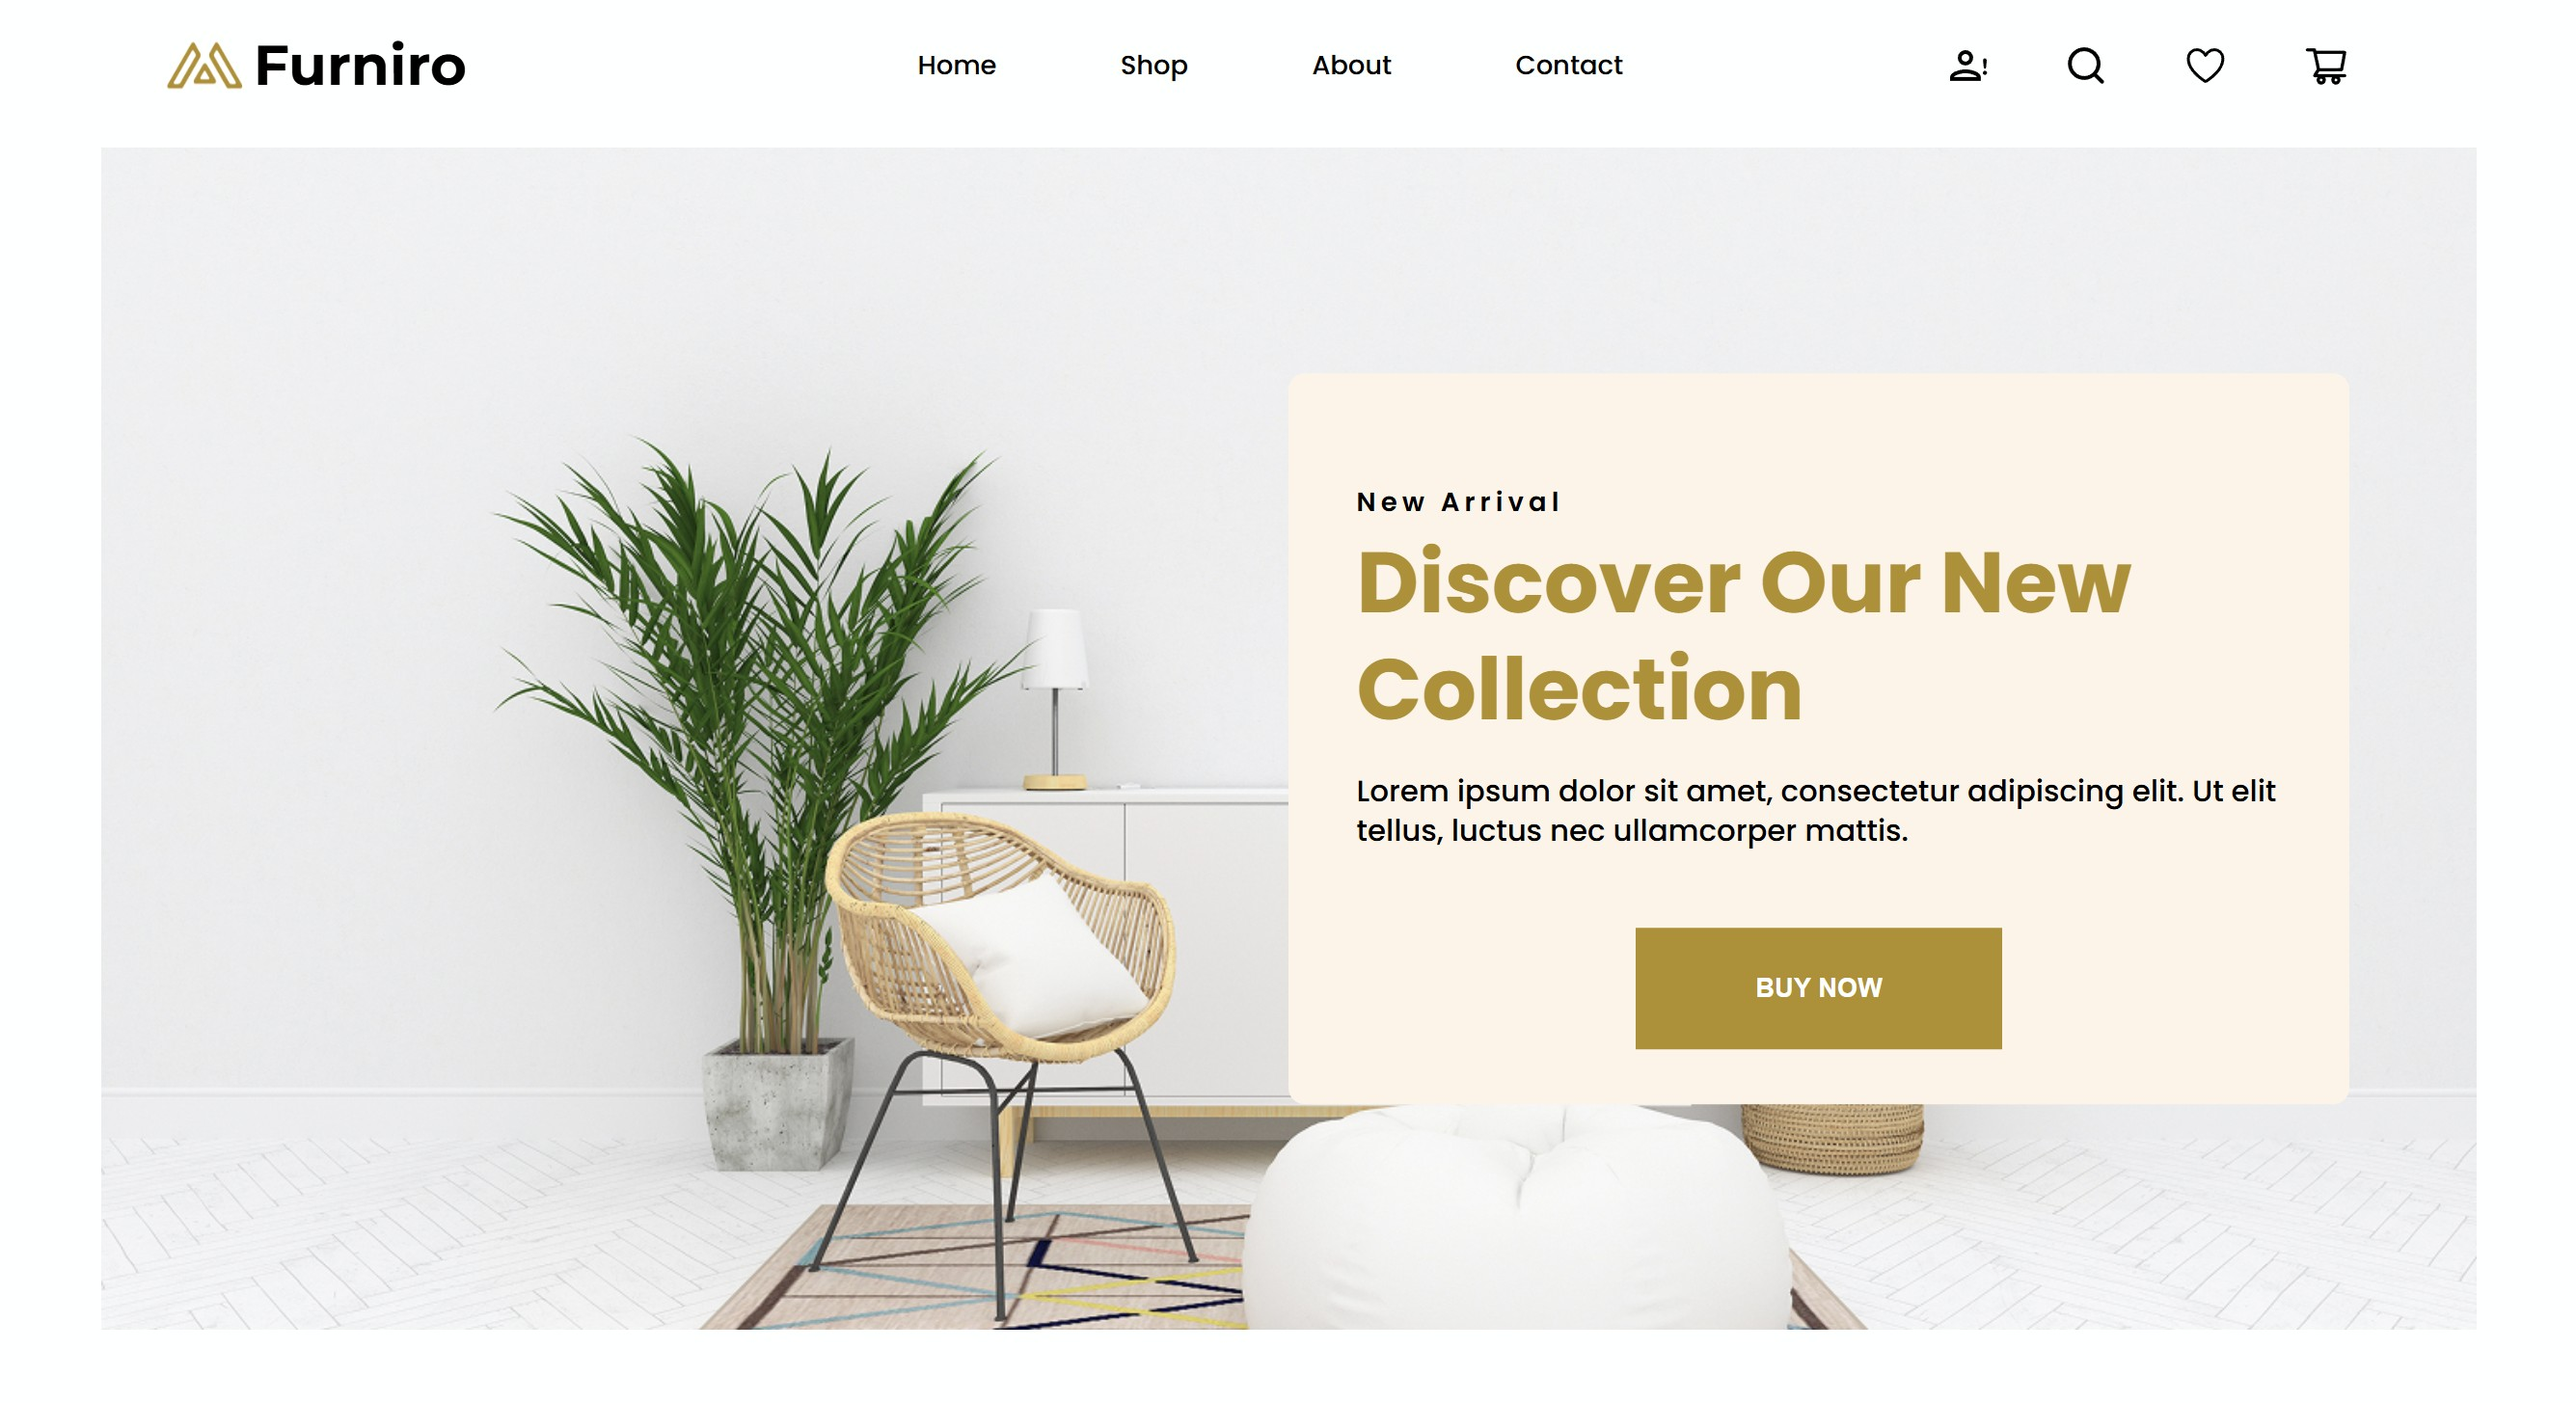
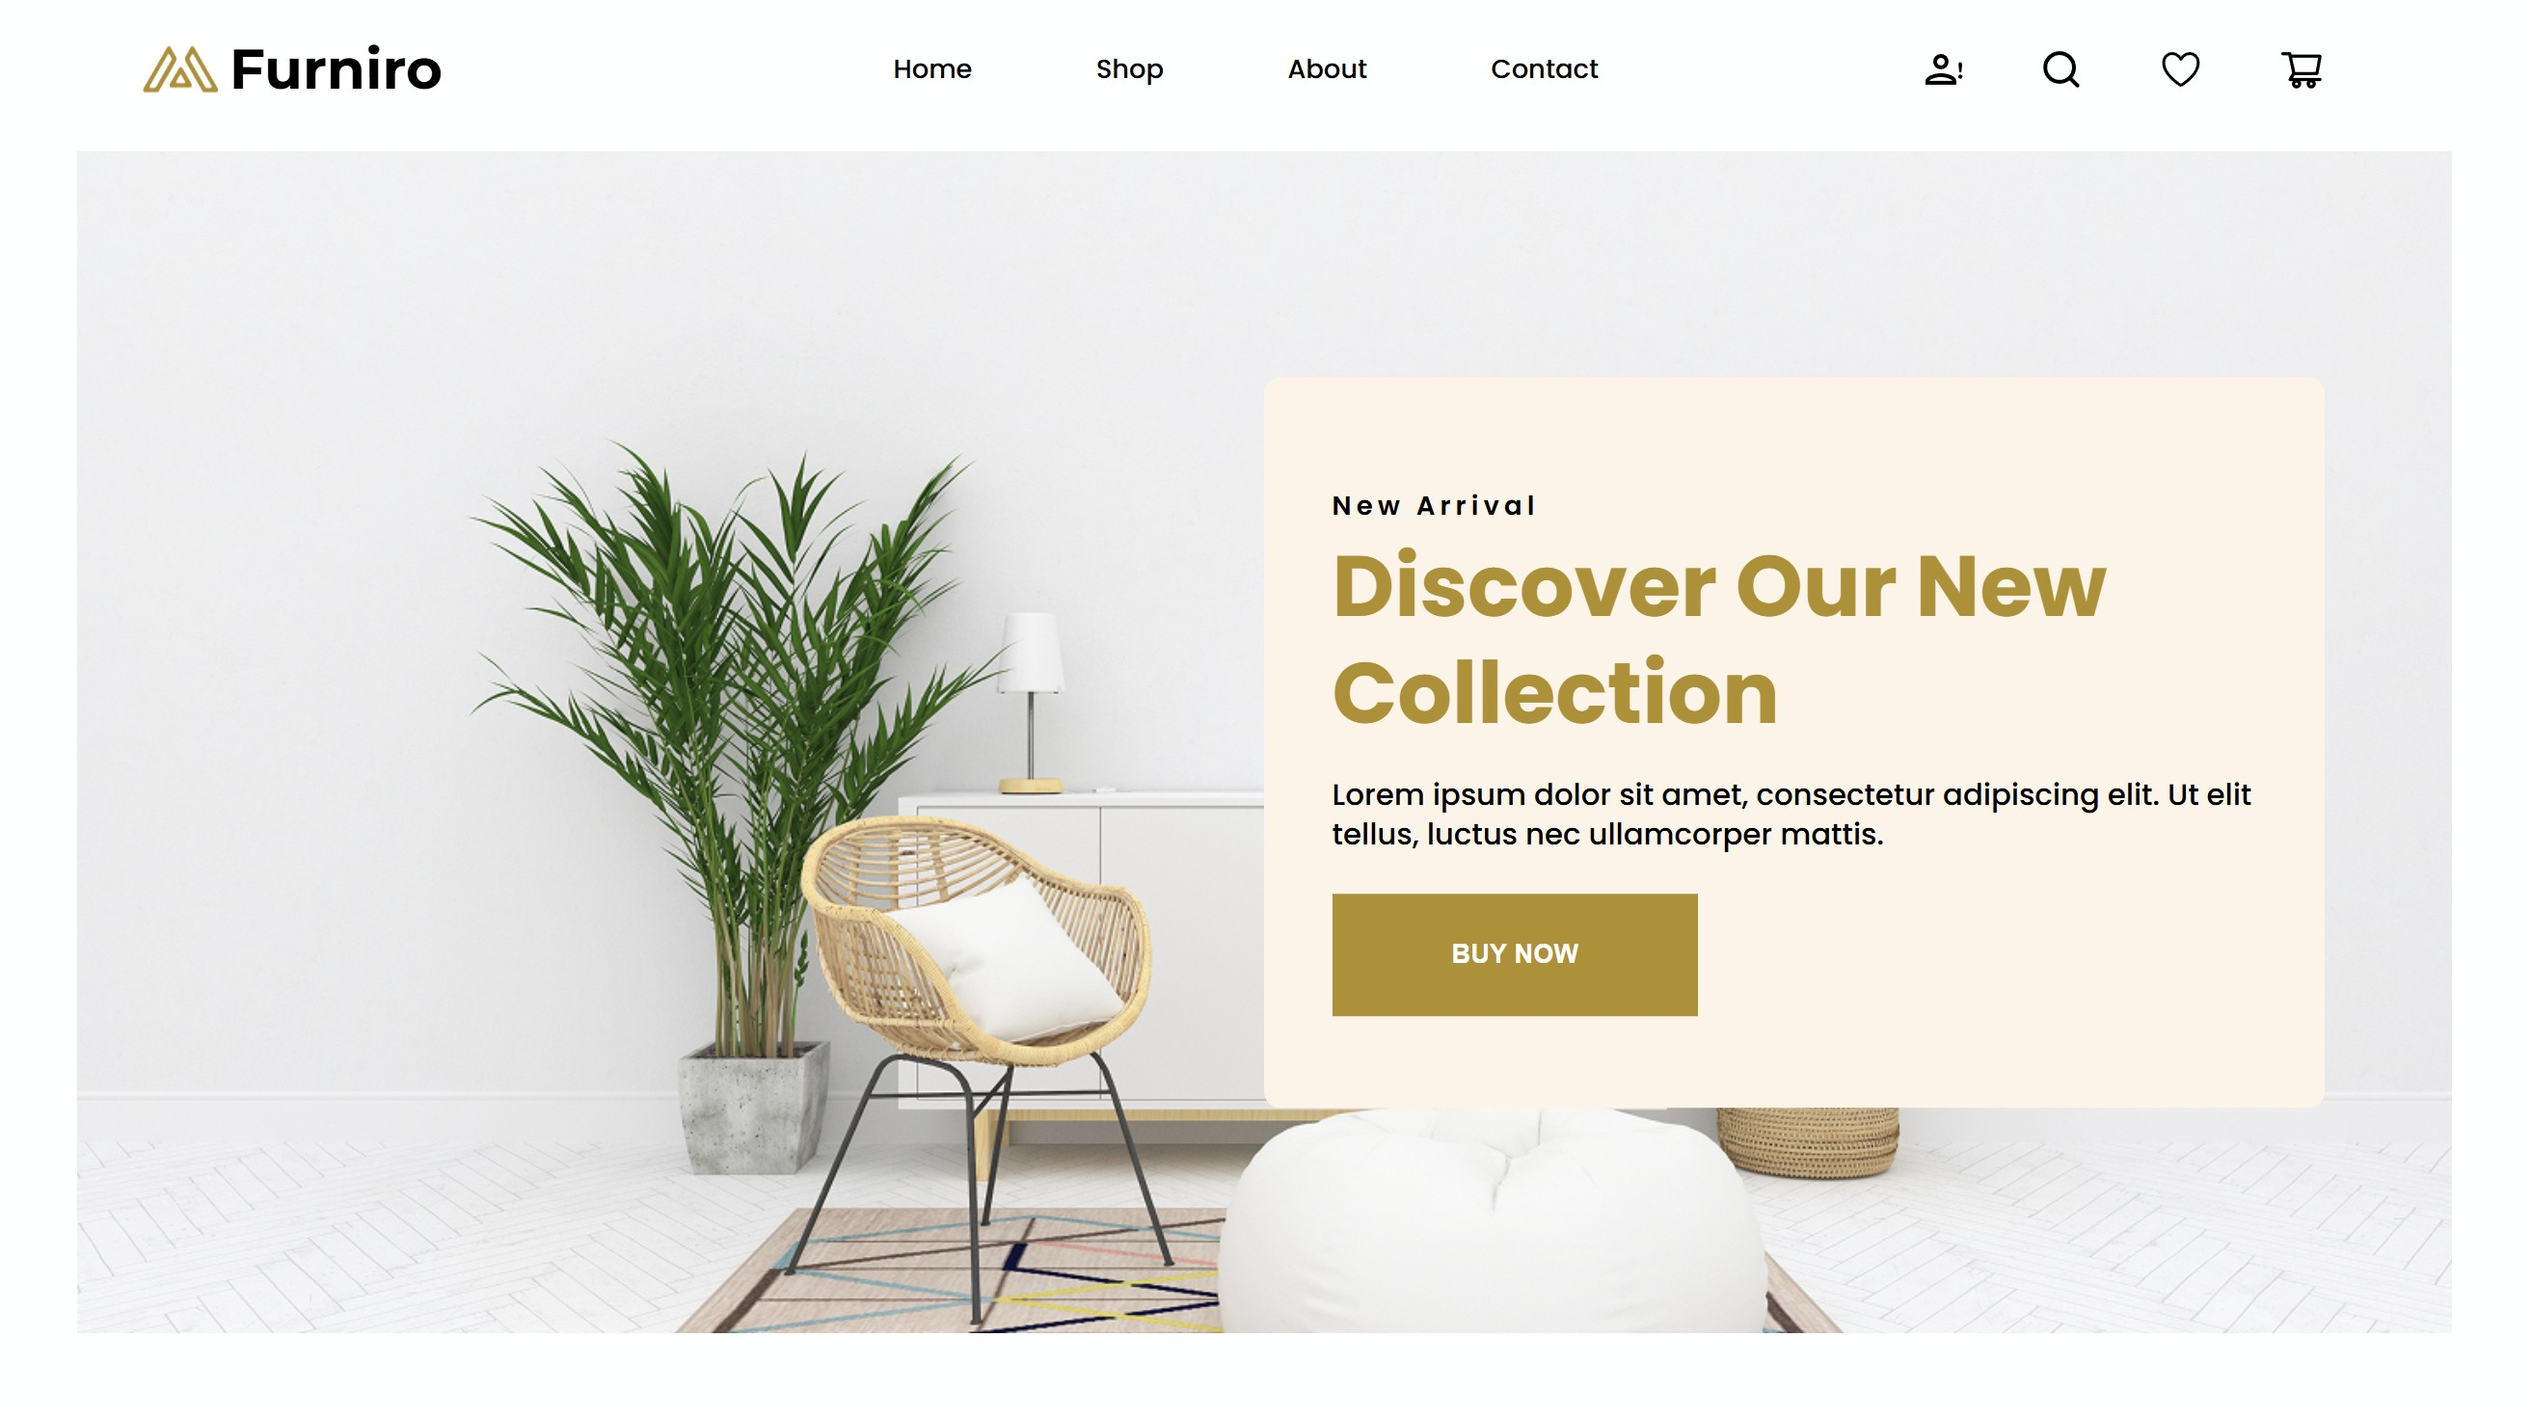
docs: Updated #PR17 details and readme
Readme update includes img replacement and milestone updates, as well as
better spacing between sections.

diff --git a/README.md b/README.md
@@ -7,7 +7,7 @@
 </div>
 
 <br>
-<p align = "center">ℹ Note: Current scope is restricted to the Landing Page. Optimised for small desktops and above.</p>
+<p align = "center">ℹ Note: Current scope is restricted to the Landing Page. Optimised for mobile & desktop.</p>
 
 ------------
 
@@ -45,6 +45,8 @@ npm run dev
 After setting my eyes on this public community figma design, which actually encompassed an entire 8 pages and a sidebar; it made sense to implement a scalable front-end system, with reusable components and design tokens. This would make it easier to create all the pages on this selfsame project.
 </i>
 
+<br/>
+
 # Tech Stack
 
 <p align="left">
@@ -53,6 +55,8 @@ After setting my eyes on this public community figma design, which actually enco
   </a>
     <h4><u>Packages:</u><br/><span style = "font-weight:lighter">classNames, react-router-dom, react-icons</span></h4>
 </p>
+
+<br/>
 
 # Architecture
 
@@ -77,6 +81,7 @@ Folder & file structure: <a href="./docs/readme-assets/hierarchy.md">hierarchy.m
 - <i>Layout.module.css</i> - Where the initial properties of the `grid`, `contentContainer` and `wideContainer` classes are established.
 - <i>Themes.module.css</i> - Where all the design variable tokens for the default theme class reside.
 
+<br/>
 
 # Components
 
@@ -91,12 +96,15 @@ Folder & file structure: <a href="./docs/readme-assets/hierarchy.md">hierarchy.m
 
 </div>
 
+<br/>
 
 # Figma Reference 
 
 <b>Home</b>: <a href="./docs/readme-assets/figma-screenshots/figma-home-full.jpg">Full</a> | <a href="./docs/readme-assets/figma-screenshots/figma-home-layout-grid.jpg">Layout Grid</a> | Close ups: <a href="./docs/readme-assets/figma-screenshots/figma-home-pt1.jpg">Pt1</a> | <a href="./docs/readme-assets/figma-screenshots/figma-home-pt2.jpg">Pt2</a> | <a href="./docs/readme-assets/figma-screenshots/figma-home-pt3.jpg">Pt3</a>
 
 Figma links can also be provided upon request.
+
+<br/>
 
 # Process
 
@@ -109,7 +117,9 @@ Project initialisation to systems implementation: <a href="./docs/readme-assets/
 From the initial skeleton to translating the <i>Home</i> page from figma: <a href="./docs/readme-assets/process-pr9-15.md">#PR9-#PR15</a>
 
 <b>Site responsiveness:</b><br/>
-Making the site responsive for all desktop sizes: <a href="./docs/readme-assets/process-pr16.md">#PR16</a>
+Making the site responsive for all desktop & mobile sizes: <a href="./docs/readme-assets/process-pr16-17.md">#PR16-#PR17</a>
+
+<br/>
 
 # Milestones
 
@@ -121,17 +131,22 @@ Making the site responsive for all desktop sizes: <a href="./docs/readme-assets/
 - All Home sections visually styled for the original 1440px Figma design, using media queries where appropriate
 - Carousel & ProductCard components that dynamically populate based on the accompanying data file
 
-<h3><b>MS1</b> - In Progress</h3>
+<h3><b>MS1</b> - Completed: 2026/05/29</h3>
 
 - [x] Better responsiveness on smaller desktop widths: Using appropriate breakpoints, including adjusting grid spans and pushing other flexed content where necessary
-- [ ] Add responsiveness for all mobile devices
-- [ ] Add placeholder 'coming soon' sections for linking pages that are yet to be implemented
-- [ ] Add the alternative ProductCard view when clicking on the card
+- [x] Add responsiveness for all mobile devices
 
+<br/>
 
 # Future Milestones
 
 <h3><b>MS2</b></h3>
+
+- Add placeholder 'coming soon' sections for linking pages that are yet to be implemented
+- Add the alternative ProductCard view when clicking on the card
+- Improve the asthetic of the Banner section's 'Discover Our New Collection' box on smaller devices. 
+
+<h3><b>MS3</b></h3>
 
 - Implement another page from the figma design
 - Ensure this page is fully responsive for all devices

diff --git a/docs/readme-assets/process-pr16-17.md b/docs/readme-assets/process-pr16-17.md
@@ -17,3 +17,5 @@ Similar to my decision making on the Header, as the device width decreases, it w
 - #PR17 Pt5: Our Products was mostly already mobile responsive due to the grid layout, it just needed an additional gap placed on the smallest of devices so each card was not touching one another. 
 
 - #PR17 Pt6: For the Inspirations section, I needed to make the images more responsive, and in turn, add a clamp to the position of the card content box (Inner Peace), in order to be fully mobile responsive at the smallest widths. I also added a few minor margins for the subheader and the carousel indicators to stop them from hugging the left edge on smaller devices.
+
+- #PR17 Pt7: Finally, for the Hashtag Share section, all that was needed to make the page fully mobile responsive was to split the #FurniroFuture header into two parts; to allow the word 'Furniture' to sit on the following line, moving it from an inline to block on widths smaller than 400px. (The image behaviour within this section was already implemented before this branch, making short work of this component refactor).
